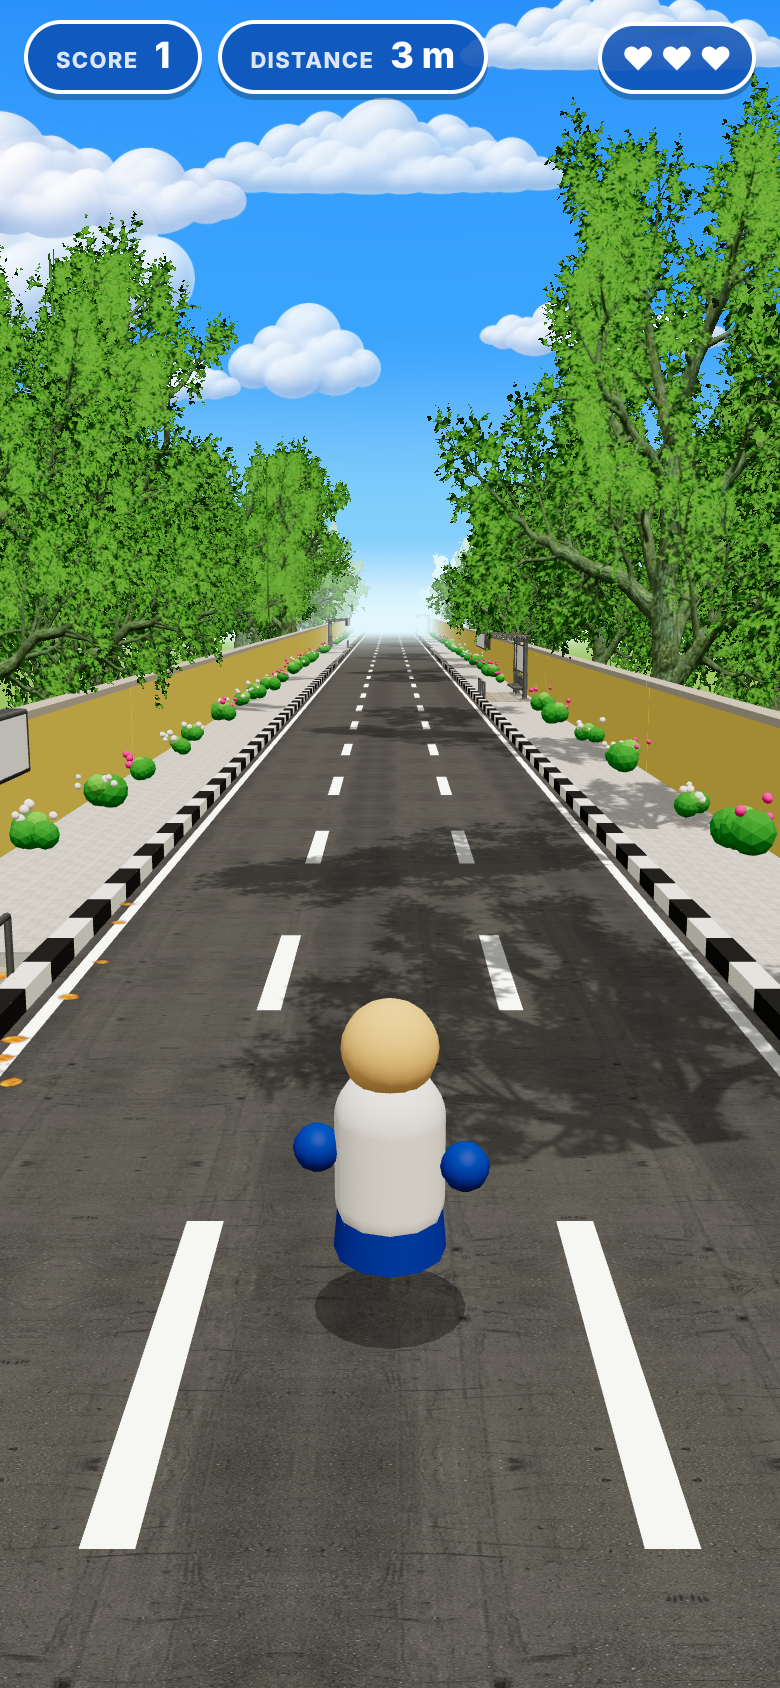
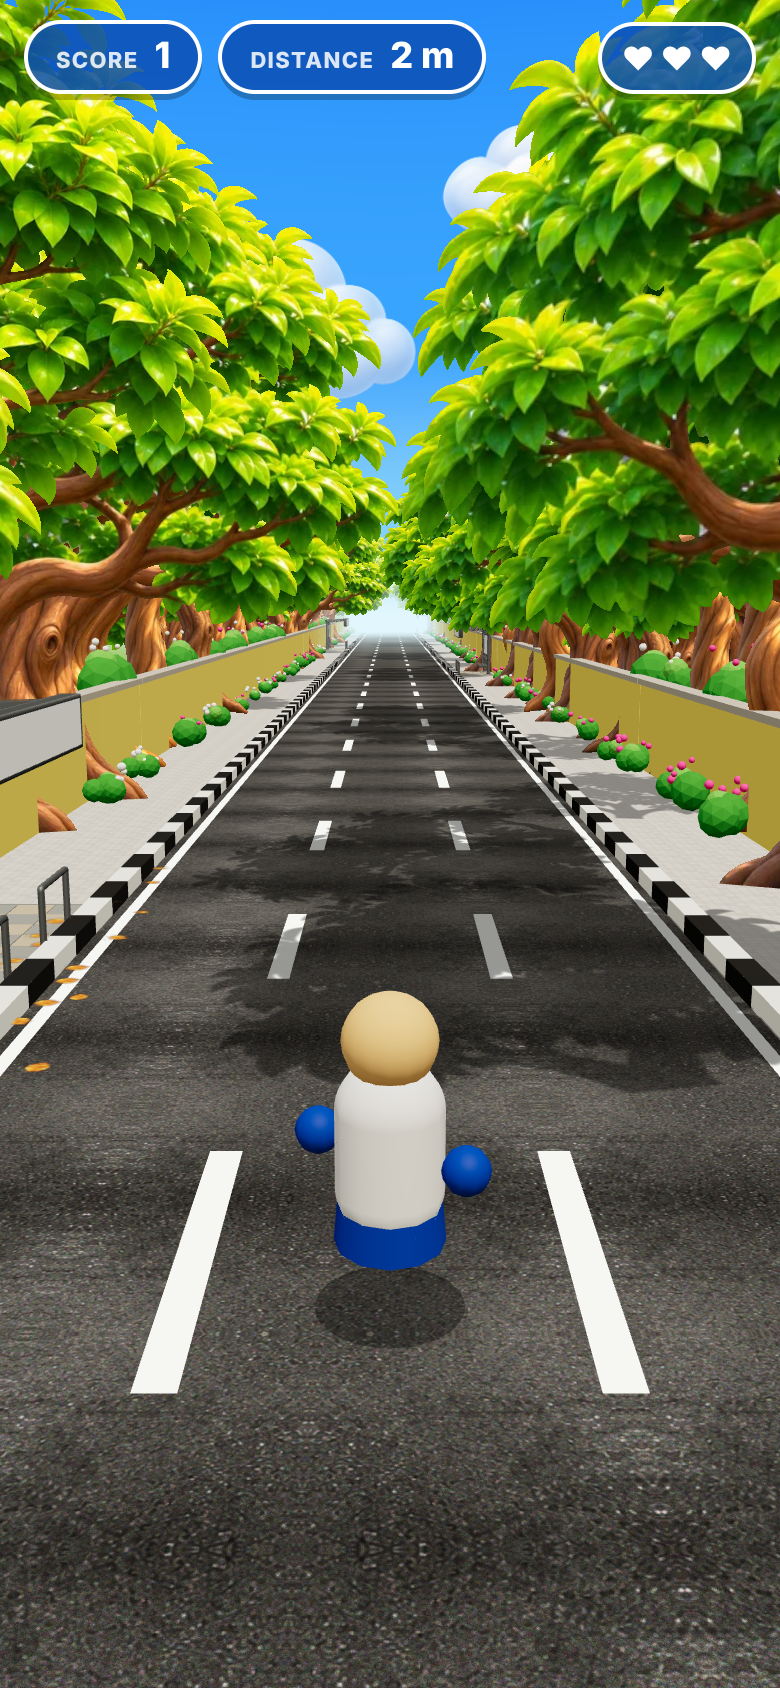
World: replace baked trees with the stylised tree art
- assets/raw/trees: four tree PNGs -> WebP billboards via the pipeline
- trees turn to face the camera each frame; two dense rows per side
- road shadows rebuilt from the new canopies
- flowering hedge peeking over the wall; brighter wall yellow
- retire bake-trees.mjs and the old baked sprites

Claude-Session: https://claude.ai/code/session_015MHPvXtKwbps1DwJmjDf5T

diff --git a/public/js/world.js b/public/js/world.js
@@ -8,7 +8,8 @@ import { pavingTexture } from './textures.js';
 
 const SHRUBS_PER_CHUNK = 26;
 const FLOWERS_PER_SHRUB = 5;
-const TREES_PER_CHUNK = 16;
+const TREES_PER_CHUNK = 56;   // 28 per side: a near row + a far row, overlapping canopies
+const HEDGE_PER_CHUNK = 24;
 
 /**
  * The running world: an endless street built from CHUNK_COUNT identical
@@ -26,10 +27,10 @@ export class World {
 
     this.materials = this._materials();
     this.staticGeometry = this._buildStaticGeometry();
+    // Stylised tree art as unlit billboards (the art carries its own shading).
     this.treeMaterials = assets.trees.map((t) => ({
-      front: new THREE.MeshBasicMaterial({ map: t.front, color: 0xc2ecaa, alphaTest: 0.45, side: THREE.DoubleSide, fog: true }),
-      side: new THREE.MeshBasicMaterial({ map: t.side, color: 0xc2ecaa, alphaTest: 0.45, side: THREE.DoubleSide, fog: true }),
-      width: t.width, height: t.height,
+      material: new THREE.MeshBasicMaterial({ map: t.map, alphaTest: 0.5, side: THREE.DoubleSide, fog: true, toneMapped: false }),
+      aspect: t.aspect,
     }));
     this.treeGeometry = new THREE.PlaneGeometry(1, 1).translate(0, 0.5, 0);
 
@@ -44,14 +45,25 @@ export class World {
     this.chunkSerial = CHUNK_COUNT;
   }
 
-  /** Advance the world by `distance` metres (towards the player). */
-  update(distance) {
+  /**
+   * Advance the world by `distance` metres (towards the player) and turn the
+   * tree billboards to face the camera so they keep their volume as they pass.
+   */
+  update(distance, cameraPos) {
     for (const chunk of this.chunks) {
       chunk.position.z += distance;
       // Chunk fully behind the camera → move it to the far end and re-dress.
       if (chunk.position.z - CHUNK_LENGTH / 2 > 12) {
         chunk.position.z -= CHUNK_LENGTH * CHUNK_COUNT;
         this._dressChunk(chunk, this.chunkSerial++);
+      }
+      if (cameraPos) {
+        for (const tree of chunk.userData.trees) {
+          if (!tree.visible) continue;
+          const dz = cameraPos.z - (chunk.position.z + tree.position.z);
+          const dx = cameraPos.x - tree.position.x;
+          tree.rotation.y = Math.atan2(dx, dz);        // cylindrical billboard
+        }
       }
     }
   }
@@ -186,6 +198,14 @@ export class World {
     chunk.add(shrubs, shrubsLight, flowersPink, flowersWhite);
     chunk.userData.shrubs = { shrubs, shrubsLight, flowersPink, flowersWhite };
 
+    // A flowering hedge peeking over the wall from behind, for depth layering.
+    const hedge = new THREE.InstancedMesh(shrubGeo, m.shrub, HEDGE_PER_CHUNK * 2);
+    const hedgeLight = new THREE.InstancedMesh(shrubGeo, m.shrubLight, HEDGE_PER_CHUNK);
+    const hedgePink = new THREE.InstancedMesh(flowerGeo, m.flowerPink, HEDGE_PER_CHUNK * 4);
+    const hedgeWhite = new THREE.InstancedMesh(flowerGeo, m.flowerWhite, HEDGE_PER_CHUNK * 4);
+    chunk.add(hedge, hedgeLight, hedgePink, hedgeWhite);
+    chunk.userData.hedge = { hedge, hedgeLight, hedgePink, hedgeWhite };
+
     // Dynamic dressing: one shelter per side (toggled), a pool of trees.
     chunk.userData.shelters = {
       left: this._makeShelter(-1),
@@ -211,12 +231,11 @@ export class World {
   }
 
   _makeTree() {
+    // One plane that is turned toward the camera every frame (see update()).
     const group = new THREE.Group();
-    const front = new THREE.Mesh(this.treeGeometry, this.treeMaterials[0].front);
-    const side = new THREE.Mesh(this.treeGeometry, this.treeMaterials[0].side);
-    side.rotation.y = Math.PI / 2;
-    group.add(front, side);
-    group.userData = { front, side };
+    const front = new THREE.Mesh(this.treeGeometry, this.treeMaterials[0].material);
+    group.add(front);
+    group.userData = { front };
     return group;
   }
 
@@ -236,15 +255,18 @@ export class World {
     trees.forEach((tree, i) => {
       const kind = this.treeMaterials[Math.floor(rng() * this.treeMaterials.length)];
       const s = i % 2 === 0 ? -1 : 1;
-      const scale = 0.7 + rng() * 0.4;
-      tree.userData.front.material = kind.front;
-      tree.userData.side.material = kind.side;
-      tree.scale.set(kind.width * scale, kind.height * scale, 1);
-      const slot = Math.floor(i / 2);                     // 8 slots per side
-      const z = -CHUNK_LENGTH / 2 + (slot + 0.2 + rng() * 0.6) * (CHUNK_LENGTH / 8);
-      tree.position.set(s * (WALL.outer + 1.5 + rng() * 5), -0.05, z);
-      tree.rotation.y = (rng() - 0.5) * 0.6;
-      tree.visible = rng() < 0.9;
+      const perSide = TREES_PER_CHUNK / 2;
+      const j = Math.floor(i / 2);                        // 0..perSide-1
+      const nearRow = j < perSide / 2;                    // first half near, second half far
+      const slots = perSide / 2;                          // slots per row
+      const slot = nearRow ? j : j - slots;
+      const z = -CHUNK_LENGTH / 2 + (slot + (nearRow ? 0.15 : 0.6) + rng() * 0.4) * (CHUNK_LENGTH / slots);
+      const height = nearRow ? 11 + rng() * 4 : 9 + rng() * 4;
+      const x = s * (WALL.outer + (nearRow ? 0.4 + rng() * 1.2 : 3.5 + rng() * 3));
+      tree.userData.front.material = kind.material;
+      tree.scale.set(height * kind.aspect, height, 1);
+      tree.position.set(x, -0.05, z);
+      tree.visible = true;
     });
 
     // Shrubs hug the wall; leave the shelter's platform clear.
@@ -281,6 +303,37 @@ export class World {
     for (; pi < flowersPink.count; pi++) flowersPink.setMatrixAt(pi, mat.compose(pos, quat, scl));
     for (; wi < flowersWhite.count; wi++) flowersWhite.setMatrixAt(wi, mat.compose(pos, quat, scl));
     for (const im of [shrubs, shrubsLight, flowersPink, flowersWhite]) im.instanceMatrix.needsUpdate = true;
+
+    // Hedge behind the wall: bushy clumps whose tops show above the cap.
+    const { hedge, hedgeLight, hedgePink, hedgeWhite } = chunk.userData.hedge;
+    let hi = 0, hl = 0, hp = 0, hw = 0;
+    for (let i = 0; i < HEDGE_PER_CHUNK; i++) {
+      const s = i % 2 === 0 ? -1 : 1;
+      const z = -CHUNK_LENGTH / 2 + (Math.floor(i / 2) + rng()) * (CHUNK_LENGTH / (HEDGE_PER_CHUNK / 2));
+      const x = s * (WALL.outer + 0.55);
+      const size = rng() < 0.7 ? 0.8 + rng() * 0.5 : 0;   // gaps in the hedge
+      const top = WALL.height + size * 0.35;              // centre so ~half shows over the cap
+      for (let b = 0; b < 2; b++) {
+        pos.set(x + (rng() - 0.5) * 0.4, top - size * 0.3, z + (rng() - 0.5) * 1.2 + b * 0.5);
+        quat.setFromEuler(new THREE.Euler(rng() * 3, rng() * 3, 0));
+        scl.setScalar(size * (0.8 + rng() * 0.4));
+        hedge.setMatrixAt(hi++, mat.compose(pos, quat, scl));
+      }
+      pos.set(x, top, z);
+      scl.setScalar(size * 0.7);
+      hedgeLight.setMatrixAt(hl++, mat.compose(pos, quat, scl));
+      const pink = rng() < 0.5;
+      for (let f = 0; f < 4; f++) {
+        pos.set(x + (rng() - 0.5) * size, top + size * (0.1 + rng() * 0.5), z + (rng() - 0.5) * size * 1.5);
+        scl.setScalar(size ? 0.9 + rng() * 0.7 : 0);
+        const mtx = mat.compose(pos, quat.identity(), scl);
+        if (pink) hedgePink.setMatrixAt(hp++, mtx); else hedgeWhite.setMatrixAt(hw++, mtx);
+      }
+    }
+    scl.setScalar(0);
+    for (; hp < hedgePink.count; hp++) hedgePink.setMatrixAt(hp, mat.compose(pos, quat, scl));
+    for (; hw < hedgeWhite.count; hw++) hedgeWhite.setMatrixAt(hw, mat.compose(pos, quat, scl));
+    for (const im of [hedge, hedgeLight, hedgePink, hedgeWhite]) im.instanceMatrix.needsUpdate = true;
   }
 }
 

diff --git a/public/js/assets.js b/public/js/assets.js
@@ -4,7 +4,7 @@ import { MeshoptDecoder } from 'three/addons/libs/meshopt_decoder.module.js';
 
 /**
  * Loads every runtime asset with one progress callback.
- * Returns { shelter, asphalt, shadows, clouds, trees: [{front, side, width, height}], leaf }.
+ * Returns { shelter, asphalt, shadows, clouds, trees: [{map, aspect}], leaf }.
  */
 export async function loadAssets(onProgress = () => {}) {
   const manager = new THREE.LoadingManager();
@@ -49,16 +49,22 @@ export async function loadAssets(onProgress = () => {}) {
   const treeMeta = await loadJson('assets/textures/trees.json');
   const cloudMeta = await loadJson('assets/textures/clouds.json');
 
-  const [shelterGltf, asphalt, shadows, leaf, aFront, aSide, bFront, bSide] = await Promise.all([
+  const [shelterGltf, asphalt, shadows, leaf] = await Promise.all([
     loadGltf('assets/models/bus-shelter.glb'),
     loadTex('assets/textures/asphalt.webp', { repeat: true }),
     loadTex('assets/textures/tree-shadows.webp', { srgb: false, repeat: true }),
     loadTex('assets/textures/leaf.webp'),
-    loadTex('assets/textures/tree-a-front.webp'),
-    loadTex('assets/textures/tree-a-side.webp'),
-    loadTex('assets/textures/tree-b-front.webp'),
-    loadTex('assets/textures/tree-b-side.webp'),
   ]);
+  const treeFiles = [
+    ['tree-1', 'assets/textures/tree-1.webp'],
+    ['tree-2', 'assets/textures/tree-2.webp'],
+    ['tree-3', 'assets/textures/tree-3.webp'],
+    ['tree-4', 'assets/textures/tree-4.webp'],
+  ];
+  const trees = await Promise.all(treeFiles.map(async ([key, url]) => ({
+    map: await loadTex(url),
+    aspect: treeMeta[key].aspect,
+  })));
   // Literal paths (not template strings) so the single-file build can inline them.
   const cloudFiles = [
     ['cloud-1', 'assets/textures/cloud-1.webp'],
@@ -86,9 +92,6 @@ export async function loadAssets(onProgress = () => {}) {
     shadows,
     leaf,
     clouds,
-    trees: [
-      { front: aFront, side: aSide, width: treeMeta.a.width, height: treeMeta.a.height },
-      { front: bFront, side: bSide, width: treeMeta.b.width, height: treeMeta.b.height },
-    ],
+    trees,
   };
 }

diff --git a/public/js/main.js b/public/js/main.js
@@ -116,7 +116,7 @@ function frame() {
   }
   const step = state.speed * dt;
 
-  world.update(step);
+  world.update(step, camera.position);
   cloudField.update(dt, step);
   player.update(dt, state.speed);
   player.group.visible = state.mode === 'running';

diff --git a/public/js/config.js b/public/js/config.js
@@ -35,7 +35,7 @@ export const COLORS = {
   kerbWhite: 0xf3f3ee,
   kerbBlack: 0x262626,
   pavement: 0xffffff,      // tinted by the paving texture
-  wall: 0xeccf5e,
+  wall: 0xf7dc62,
   wallCap: 0xbdb6a8,
   ground: 0x79b24a,
   dirt: 0x8d7a4e,
